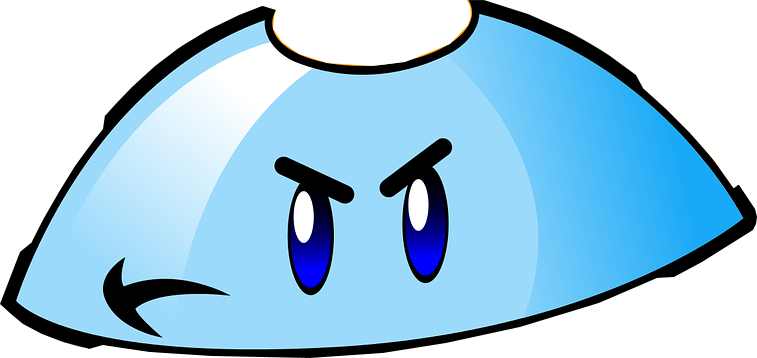
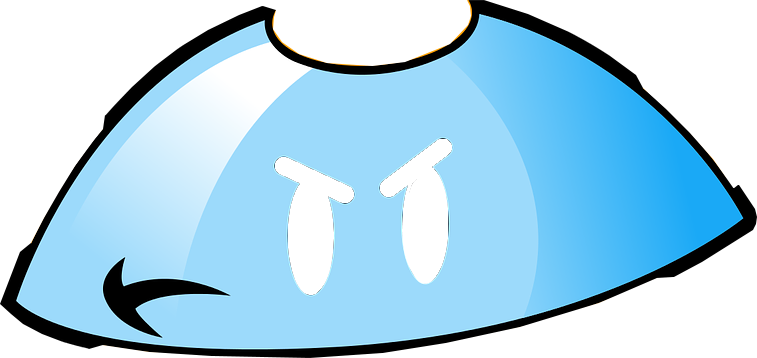
Ajout page Oeil / Chapeau

Changed region(s): [[0.3646, 0.3687, 0.6077, 0.8296]]

diff --git a/logique/pages/4/index.html b/logique/pages/4/index.html
@@ -1,0 +1,111 @@
+<!DOCTYPE html>
+<html lang="fr">
+
+<head>
+    <!-- The above 3 meta tags *must* come first in the head; any other head content must come *after* these tags -->
+    <meta charset="utf-8">
+    <meta http-equiv="X-UA-Compatible" content="IE=edge">
+    <meta name="viewport" content="width=device-width, initial-scale=1">
+    <!--##########################################################################################################-->
+
+    <!-- Description -->
+    <meta name="description" content="Page 1 de l'activité logique : Fonctionnement d'un ordinateur'">
+    <meta name="author" content="Vincent PORTA-SCARTA">
+    <title>Logique</title>
+    <!--##########################################################################################################-->
+
+    <!-- Favicon -->
+    <link rel="icon" type="image/png" size="96x96" href="../../../assets/icon.png">
+    <!--##########################################################################################################-->
+
+    <!-- Bootstrap -->
+    <!-- Bootstrap core CSS -->
+    <link href="../../../modules/bootstrap/css/bootstrap.css" rel="stylesheet">
+    <!-- Bootstrap core JavaScript -->
+    <script src="../../../modules/jquery/jquery.min.js"></script>
+    <script src="../../../modules/bootstrap/js/bootstrap.js"></script>
+    <!-- Bootstrap dialog extension -->
+    <script src="../../../modules/bootbox/bootbox.min.js"></script>
+
+    <!-- Custom styles for this template -->
+    <link href="../../assets/css/page.css" rel="stylesheet">
+    <!--##########################################################################################################-->
+
+    <!-- p5js -->
+    <script language="javascript" type="text/javascript" src="../../../modules/p5js/p5.js"></script>
+    <!--<script language="javascript" src="modules/p5js/p5.dom.js"></script>
+    <script language="javascript" src="modules/p5js/p5.sound.js"></script>-->
+    <!--##########################################################################################################-->
+
+</head>
+
+<body onload="allLoaded();">
+
+    <nav class="navbar navbar-inverse navbar-fixed-top">
+        <div class="container">
+            <div class="navbar-header">
+                <button type="button" class="navbar-toggle collapsed" data-toggle="collapse" data-target="#navbar" aria-expanded="false"
+                    aria-controls="navbar">
+                    <span class="sr-only">Toggle navigation</span>
+                    <span class="icon-bar"></span>
+                    <span class="icon-bar"></span>
+                    <span class="icon-bar"></span>
+                    </button>
+                <a class="navbar-brand" href="#">Répare ton matériel</a>
+            </div>
+            <div id="navbar" class="navbar-collapse collapse">
+                <ul class="nav navbar-nav">
+                    <li class="active"><a href="../../../index.html">Accueil</a></li>
+                    <li><a href="../../index.html">Retour</a></li>
+                    <li><a href="#" onclick="showHelp()">Aide</a></li>
+                </ul>
+            </div>
+        </div>
+    </nav>
+
+    <div id="loader" class="body-content"></div>
+
+    <div id="page" style="display:none">
+        <div id="topPage" class="container-fluid body-content">
+            <div class="row">
+                <div class="col-sm-3">
+                    <div id="title">
+                        <h2>Logique</h2>
+                        <button type="button" onclick="popupInfo();" id="btn_popup" class="btn btn-default btn-block"><span class="glyphicon glyphicon-info-sign"></span> INFO</button>
+                    </div>
+                </div>
+                <div class="col-sm-6 text-center">
+                    <h1>Progression</h1>
+                    <div id="button_place"></div>
+                </div>
+                <div class="col-sm-3">
+                    <button type="button" onclick="next_page();" id="btn_next_exercise" style="display: none" class="btn btn-success btn-block"><span class="glyphicon glyphicon-ok"></span> SUIVANT</button>
+                    <button type="button" onclick="run_code();" id="btn_run" class="btn btn-success btn-block"><span
+                            class="glyphicon glyphicon-play"></span> DEMARRER
+                    </button>
+                </div>
+            </div>
+        </div>
+
+        <div class="container-fluid" id="bodyPage">
+            <div class="row">
+                <div class="col-sm-5" id="sketch-col">
+                    <div id="sketch-holder"></div>
+                </div>
+                <div class="col-sm-7">
+                    <object id="blockly-holder" name="blockly" type="text/html" data="blockly.html"></object>
+                </div>
+            </div>
+        </div>
+    </div>
+
+    <!-- Javascript custom functions -->
+    <script src="../../../assets/js/globals.js"></script>
+    <script src="../../assets/js/logic-functions.js"></script>
+    <script src="../../assets/js/functions.js"></script>
+    <script src="script.js"></script>
+    <!--##########################################################################################################-->
+
+</body>
+
+</html>

diff --git a/logique/pages/4/script.js b/logique/pages/4/script.js
@@ -1,0 +1,34 @@
+text_info = "\nJ'ai ma tête, mais il me manque mon petit chapeau, et mes yeux !\nMon chapeau est constité de petits ronds oranges.\nMes yeux sont bleus, retrouves-les !";
+
+bucketsExercise = {
+    elems: [
+        new TextShape("Chapeau & Oeil", "#ffffff"),
+        new TextShape("Autre Oeil",     "#ffffff"),
+        new TextShape("Autre chapeau",  "#ffffff"),
+    ],
+    rules: [
+        "return item.shape == \"eye\" && item.color == \"#0000ff\" || item.shape == \"hat\" && item.color == \"#ffa500\";",
+        "return item.shape == \"eye\" && item.color != \"#0000ff\";",
+        "return item.shape == \"hat\" && item.color != \"#ffa500\";",
+    ]
+};
+
+logicExercise = new LogicSystem(bucketsExercise);
+
+function setup() {
+    var canvas = createCanvas(600, 600);
+    canvas.parent('sketch-holder');
+    noLoop();
+    initParams();
+
+    logicExercise.draw(-1);
+}
+
+function _preload(){
+    items.push({"img":loadImage("../../assets/img/eye.png")             ,"shape":"eye"       ,"color":"#0000ff"});
+    items.push({"img":loadImage("../../assets/img/eye_white.png")       ,"shape":"eye"       ,"color":"#ffffff"});
+    items.push({"img":loadImage("../../assets/img/eye_green.png")       ,"shape":"eye"       ,"color":"#00ff00"});
+    items.push({"img":loadImage("../../assets/img/hat.png")             ,"shape":"hat"       ,"color":"#ffa500"});
+    items.push({"img":loadImage("../../assets/img/hat_red.png")         ,"shape":"hat"       ,"color":"#ff0000"});
+    items.push({"img":loadImage("../../assets/img/hat_graduation.png")  ,"shape":"hat"       ,"color":"#000000"});
+}

diff --git a/logique/pages/4/blockly.html b/logique/pages/4/blockly.html
@@ -1,0 +1,48 @@
+<!DOCTYPE html>
+<html>
+
+<head>
+    <meta charset="utf-8">
+    <script src="../../../modules/blockly/blockly_uncompressed.js"></script>
+    <script src="../../../modules/blockly/msg/js/fr.js"></script>
+    <script src="../../../modules/blockly/blocks_compressed.js"></script>
+    <script src="../../../modules/blockly/javascript_compressed.js"></script>
+    <script src="../../../modules/blockly/blockly_init.js"></script>
+    <script src="../../assets/js/blocks.js"></script>
+    <link href="../../assets/css/blockly.css" rel="stylesheet">
+
+    <script>
+        Blockly.FieldColour.COLOURS = ['#0000ff', '#ffffff','#ffa500'];
+        Blockly.FieldColour.COLUMNS = 3;
+    </script>
+</head>
+
+<body onload="initBlockly(1.0,true,false)">
+<xml id="toolbox" style="display: none;">
+    <block type="controls_if"></block>
+    <block type="logic_operation">
+        <field name="OP">OR</field>
+    </block>
+    <block type="logic_operation">
+        <field name="OP">AND</field>
+    </block>
+    <!--
+    <block type="logic_negate"></block>-->
+    <block type="test_shape">
+        <field name="shape_type">eye</field>
+    </block>
+    <block type="test_color">
+        <field name="shape">#0000ff</field>
+    </block>
+    <block type="bucket">
+        <field name="bucket_idx">0</field>
+    </block>
+</xml>
+</xml>
+
+<xml id="workspace" style="display: none">
+</xml>
+
+</body>
+
+</html>

diff --git a/logique/assets/js/blocks.js b/logique/assets/js/blocks.js
@@ -10,6 +10,10 @@ switch(parseInt(window.location.href.match(new RegExp("[0-9]+", "g")).splice(-1)
         shape_per_page = [["Arrondi", "rounded"], ["Oval", "oval"]];
         put_in_bucket  = [["Bleu Arrondi","0"],["Gris","1"],["Beige","2"]];
     break;
+    case 4:
+        shape_per_page = [["Oeil", "eye"], ["Chapeau", "hat"]];
+        put_in_bucket  = [["Chapeau & Oeil","0"],["Autre Oeil","1"],["Autre chapeaux","2"]];
+    break;
 }
 
 Blockly.Blocks['test_shape'] = {
